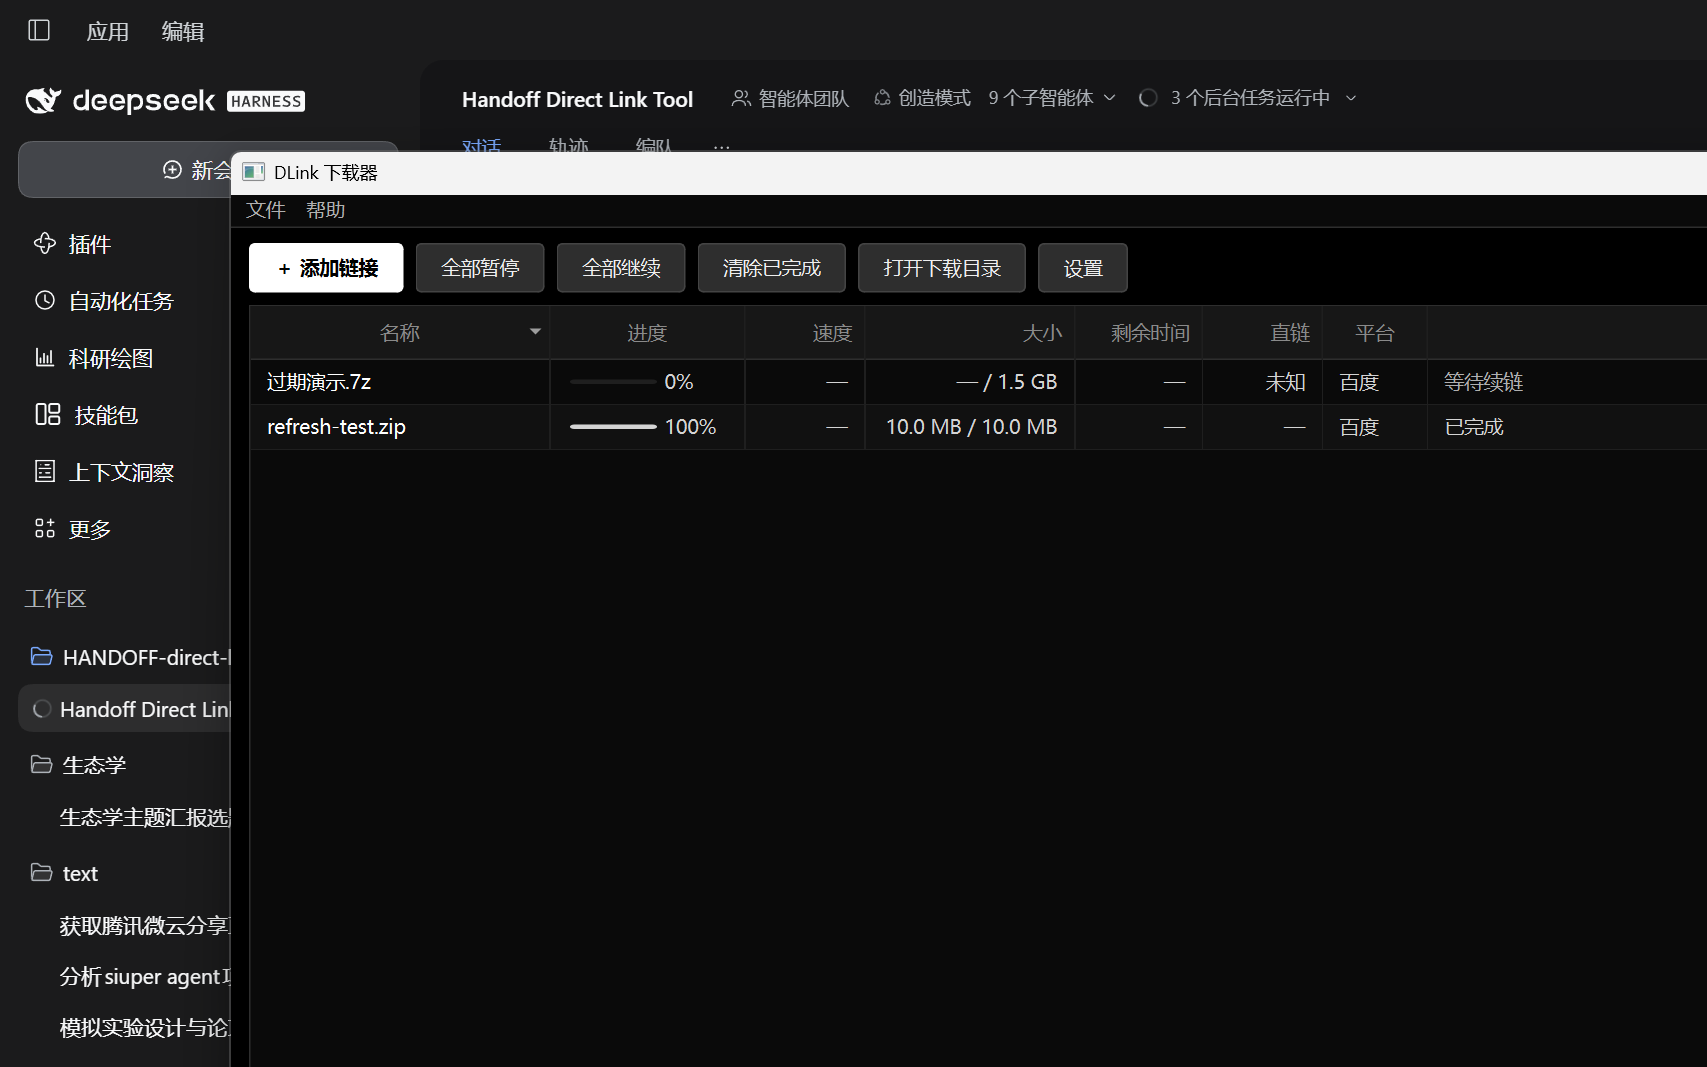
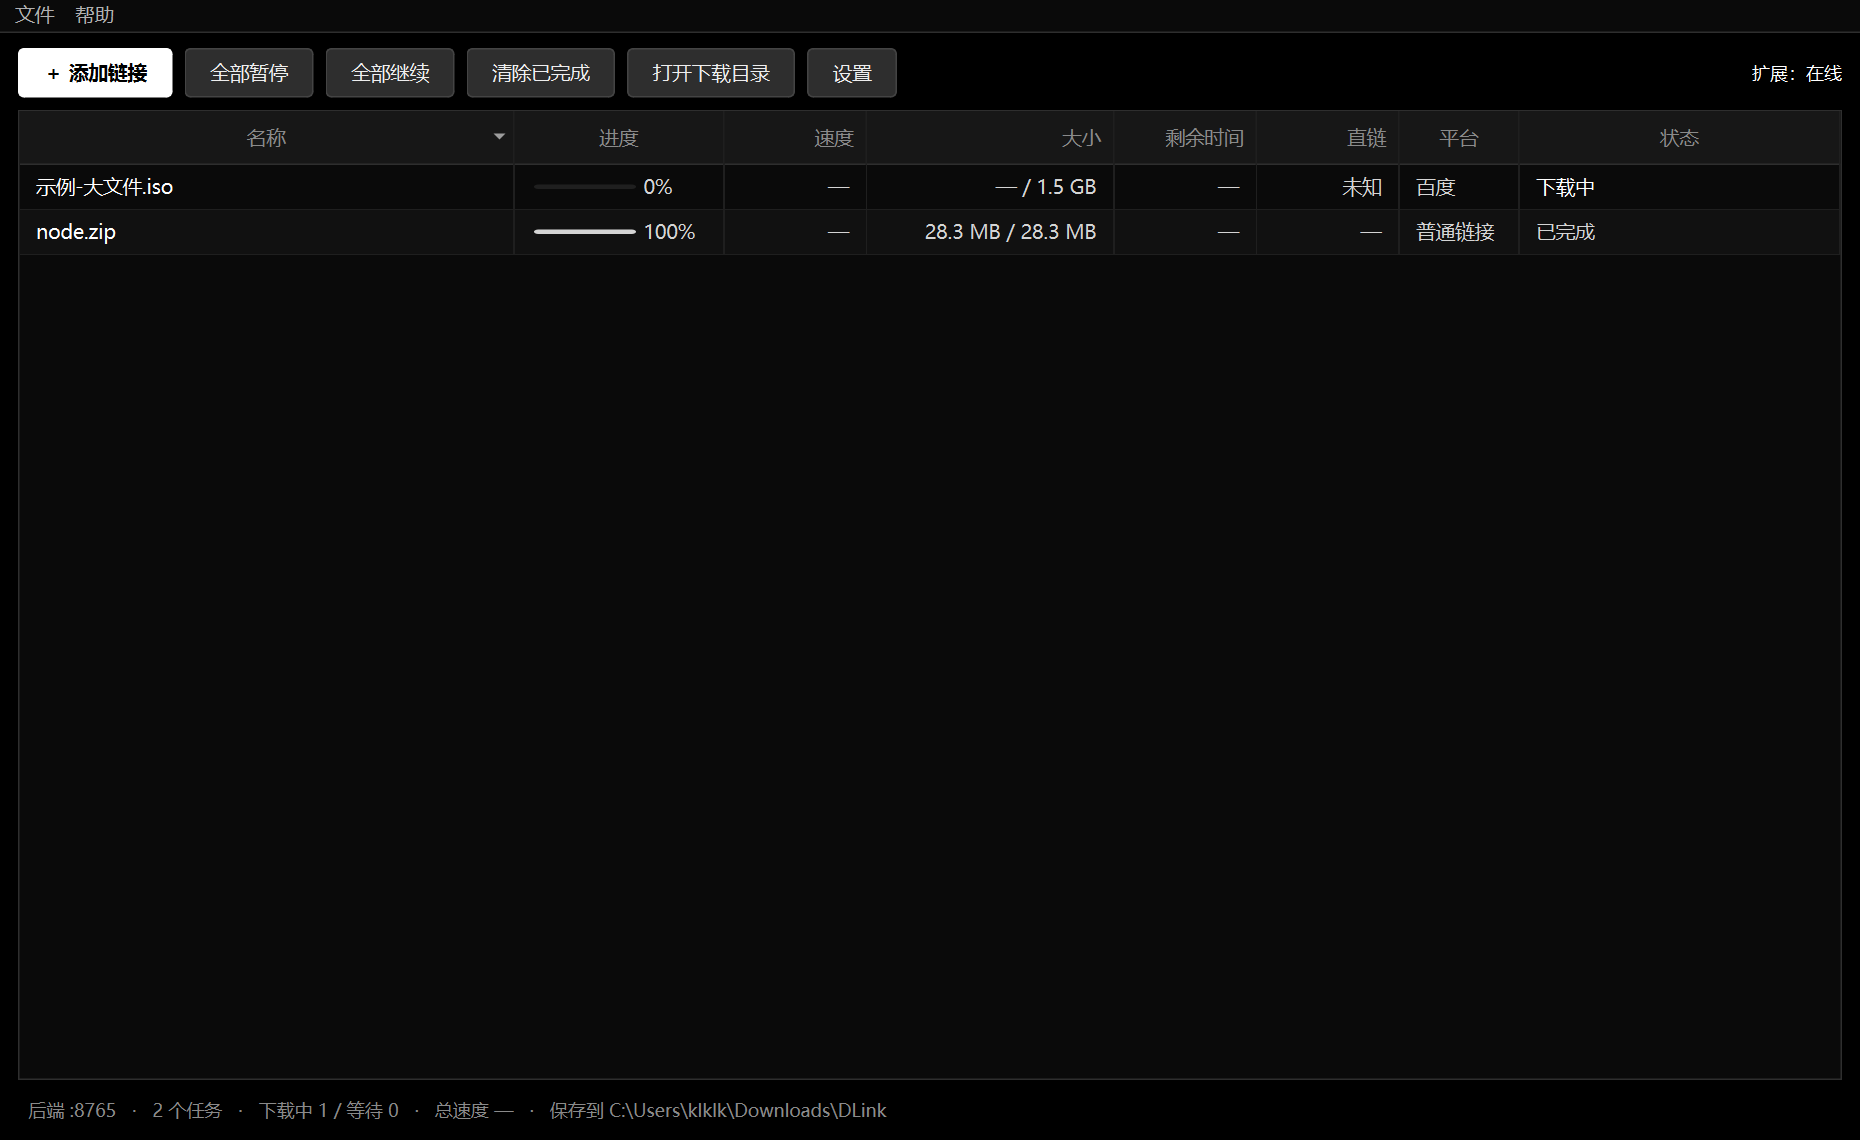
fix(gui): 修复列宽布局导致「状态」列被挤出窗口
原实现里列的 (初始宽, 最小宽, 最大宽) 元组解包顺序错误，
且用了 setStretchLastSection(True) —— 最后一列会吃掉全部剩余空间，
其余列被压到最小宽度，实际表现为「状态」列看不见。

改为：8 列全部用固定宽度（合计 1085px），窗口缩到 1240x760，
最后一列只吸收约 130px 的剩余量，8 列在默认窗口下全部可见。

实测（widget grab）：名称 330 / 进度 140 / 速度 95 / 大小 165 /
剩余时间 95 / 直链 95 / 平台 80 / 状态 214，合计 1214 = 视口 1214。

diff --git a/src/dlink/gui/main_window.py b/src/dlink/gui/main_window.py
@@ -167,7 +167,7 @@ class MainWindow(QMainWindow):
         _ico = asset_path("icon256.png")
         if _ico.exists():
             self.setWindowIcon(QIcon(str(_ico)))
-        self.resize(1500, 780)
+        self.resize(1240, 760)
 
         self.api = ApiClient()
         self.smoother = SpeedSmoother()
@@ -229,26 +229,30 @@ class MainWindow(QMainWindow):
         self.table.setHorizontalScrollMode(QAbstractItemView.ScrollPerPixel)
 
         hdr = self.table.horizontalHeader()
+        # 列宽做成**完全确定**的固定值：8 列合计约 1140px，
+        # 窗口 1240 时全部可见、右侧留一点空白。
+        # 不用 Stretch —— 之前用 Stretch 会让某一列吃掉全部剩余空间，
+        # 其他列被挤到最小，导致"状态"列看不见。
         widths = {
-            "名称": (280, 180, 900),
-            "进度": (140, 120, 190),
-            "速度": (100, 80, 140),
-            "大小": (160, 130, 230),
-            "剩余时间": (95, 80, 130),
-            "直链": (95, 80, 130),
-            "平台": (85, 70, 120),
-            "状态": (85, 70, 120),
+            "名称": 330,
+            "进度": 140,
+            "速度": 95,
+            "大小": 165,
+            "剩余时间": 95,
+            "直链": 95,
+            "平台": 80,
+            "状态": 85,
         }
+        # 最后一列（状态）吸收少量剩余空间填满表格；
+        # 因为其他 7 列宽度已固定，"吸收"的量很小（约 130px），不会喧宾夺主。
+        hdr.setStretchLastSection(True)
         for i, name in enumerate(COLUMNS):
-            mn, w, mx = widths[name]
             hdr.setSectionResizeMode(i, QHeaderView.Interactive)
-            self.table.setColumnWidth(i, w)
+            self.table.setColumnWidth(i, widths[name])
             # 数值列右对齐
             if name in ("速度", "大小", "剩余时间", "直链"):
                 item = self.table.horizontalHeaderItem(i)
                 item.setTextAlignment(Qt.AlignRight | Qt.AlignVCenter)
-        # 所有列固定初始宽度，用户可拖拽调整；不自动 Stretch（会挤掉其他列）
-        hdr.setStretchLastSection(True)
 
         layout.addWidget(self.table, 1)
 
